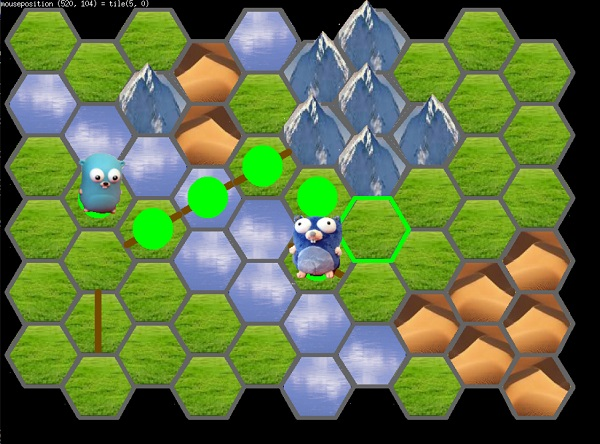
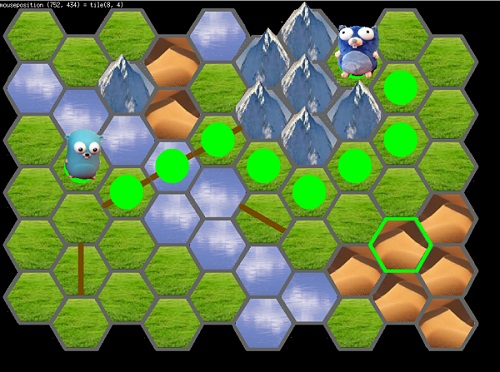
Add files via upload

diff --git a/main.go b/main.go
@@ -127,8 +127,8 @@ func init() {
 	vstart.X = 1
 	vstart.Y = 2
 	//var vend Vector2
-	vend.X = 5
-	vend.Y = 3
+	vend.X = 7
+	vend.Y = 0
 	path = astar.FindPath(vstart, vend)
 	//fmt.Println("pathlen: ", path.Count())
 	var step int
@@ -780,7 +780,7 @@ func (g *Game) init() {
 		image:       0,
 	}
 
-	x, y = 410, 300
+	x, y = 580, 20
 	vx, vy = 0, 0
 	a = 0
 	g.sprites.sprites[1] = &Sprite{
